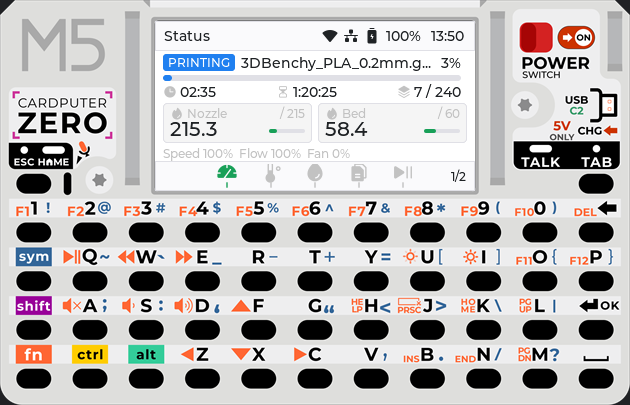
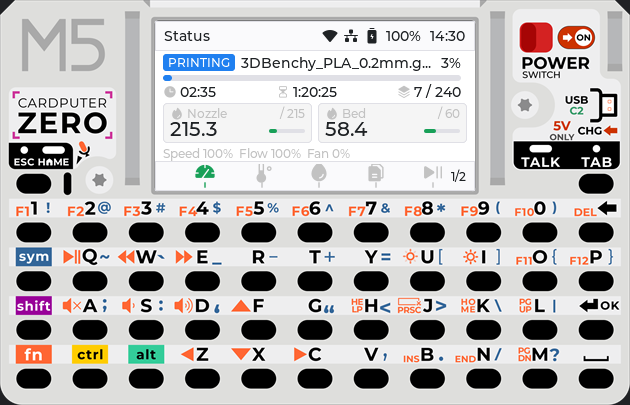
docs: レイヤーと画面が独立したことを README と設計ドキュメントに反映し、スクリーンショットを撮り直す

Changed region(s): [[0.4825, 0.3852, 0.7238, 0.4741], [0.3016, 0.3852, 0.4524, 0.4741], [0.6937, 0.0593, 0.754, 0.1185]]

diff --git a/README.md b/README.md
@@ -31,7 +31,7 @@ M5Stack **CardputerZero** に Klipper / Moonraker を載せ、本体の画面と
 - **状態バッジ**: プリンターの状態(`OFFLINE` / `STARTING` / `READY` / `PRINTING` / `PAUSED` / `COMPLETE` / `CANCELLED` / `ERROR` / `SHUTDOWN`)を色分けして出す。状態表示と印刷制御では、横にファイル名と進捗バーが並ぶ。
 - **内容エリア**: 画面ごとの表示と操作項目。選んでいる項目は緑で示す。
 - **最下行**: 選んでいる項目の操作のヒントや、エラーなどのメッセージ。状態表示では Speed / Flow / Fan を出す。
-- **ナビバー**: 画面下部に 5 つのスロットを並べ、左から順にキー `4`〜`8` に対応する。スロットはレイヤーに分かれていて(いまは 2 枚)、`Sym`+`H` / `Sym`+`J` で前 / 次のレイヤーに切り替える。右端に今のレイヤー(`1/2` など)を出す。現在の画面のアイコンは緑になり、空きスロットは無地で選べない。
+- **ナビバー**: 画面下部に 5 つのスロットを並べる。各スロットはキーボードの `4`〜`8` のキーの真上にあり、押すキーと位置がそろっている。スロットはレイヤーに分かれていて(いまは 2 枚)、`Sym`+`H` / `Sym`+`J` で前 / 次のレイヤーに切り替える。右端に今のレイヤー(`1/2` など)を出す。現在の画面のアイコンは緑になり(表示中のレイヤーにない画面なら緑のアイコンはない)、空きスロットは無地で選べない。
 - **トースト**: 操作の結果(成功 / Klipper のエラー)や「Printer is not ready」などを、画面下部に一時的に出す。
 - **テーマ**: ライト / ダークを `D` で切り替える。
 
@@ -50,7 +50,7 @@ M5Stack **CardputerZero** に Klipper / Moonraker を載せ、本体の画面と
 | 2 | `5` | 接続設定(`S` でも開く) | 接続先(この端末の Klipper / ネットワーク上のプリンター) |
 | 2 | `6`〜`8` | (空き) | 今後の画面用 |
 
-レイヤーごとに最後に開いた画面を覚えていて、レイヤーを切り替えるとその画面に戻ります。
+レイヤーと画面は独立しています。レイヤーを切り替えても変わるのはナビバーの表示(どのキーでどの画面を開くか)だけで、画面はそのままです。画面が変わるのは `4`〜`8`・`S`・`ESC` を押したときだけで、そのときもレイヤーは切り替わりません。
 
 ### 共通のキー操作
 
@@ -58,9 +58,9 @@ M5Stack **CardputerZero** に Klipper / Moonraker を載せ、本体の画面と
 |---|---|
 | `4`〜`8` | 表示中のレイヤーのスロットの画面へ切り替え(上の画面一覧) |
 | `Sym`+`H` / `Sym`+`J` | 前 / 次のレイヤーへ切り替え(シミュレーターは `<` / `>`) |
-| `S` | 接続設定(レイヤー 2 に切り替えて開く) |
-| `ESC` | ホーム(状態表示、レイヤー 1)へ戻る |
-| `4` / `ESC` 長押し | 終了(ホームで押したときのみ) |
+| `S` | 接続設定(表示中のレイヤーは変わらない) |
+| `ESC` | ホーム(状態表示)へ戻る(表示中のレイヤーは変わらない) |
+| `4` / `ESC` 長押し | 終了(ホームで押したときのみ。`4` はレイヤー 1 を表示しているときだけ) |
 | `D` | ライト / ダーク切替 |
 | `R` / `F` | Klipper 再起動(`RESTART`) / MCU 再起動(`FIRMWARE_RESTART`)。状態表示で 3 秒以内に 2 回押すと実行。Klipper が ready で印刷中・一時停止中のときは実行しない |
 | `Fn`+`H` | ヘルプ |

diff --git a/docs/design/control-pages.md b/docs/design/control-pages.md
@@ -1,6 +1,6 @@
 # 操作画面(第2段階)
 
-最終更新: 2026-10-25
+最終更新: 2026-10-27
 
 ## 現状
 
@@ -18,6 +18,8 @@
 
 - 画面のキー処理(`platform::set_screen_key_handler`)が、グローバルなショートカットより先にキーを受け取る。
 - 編集していないときは、使わないキーを返す(`Ignored`)。`4`〜`8` のページ切替(表示中のナビレイヤーのスロット)、`Sym`+`H` / `Sym`+`J` のレイヤー切替、`D`、`S`、`ESC`(戻る)が効く。
+- ナビのレイヤーと表示中の画面は独立している(`model::NavLayers`)。レイヤー切替はナビバーの表示とキーの割り当てだけを変え、画面は変えない。`S` や `ESC` で画面を開いてもレイヤーは変えない。
+- ナビバーのスロットは、キーボードの `4`〜`8` のキーの真上に置く(画面 x = 49 + 57 × スロット番号。キーの間隔は 57 px)。
 - 数字を打ち込んでいる間は、すべてのキーを画面が受け取る。`6` を打ってもページは切り替わらない。
 - 画面の操作ロジック(フォーカス、下書き、値の範囲)は LVGL に依存しないクラスに分け、単体テストする。
   設定画面の `SettingsForm` と同じ形。
